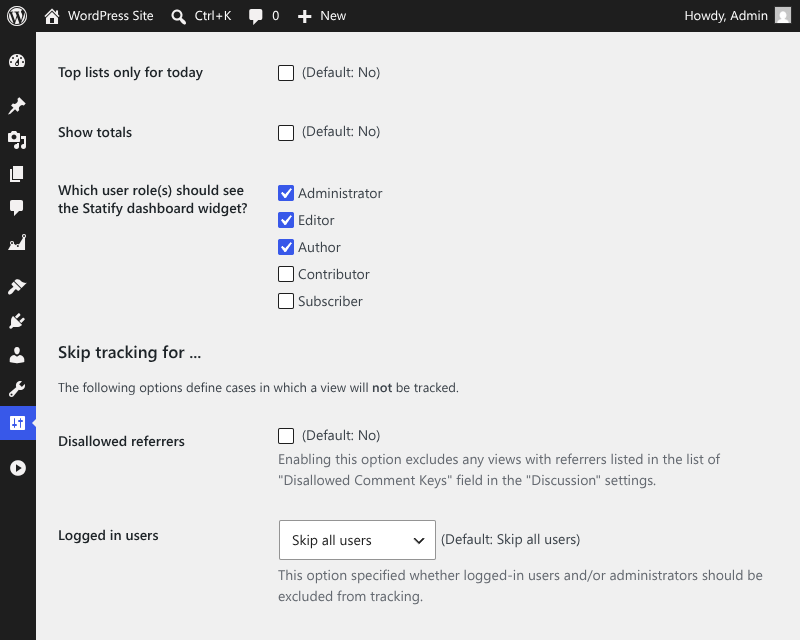
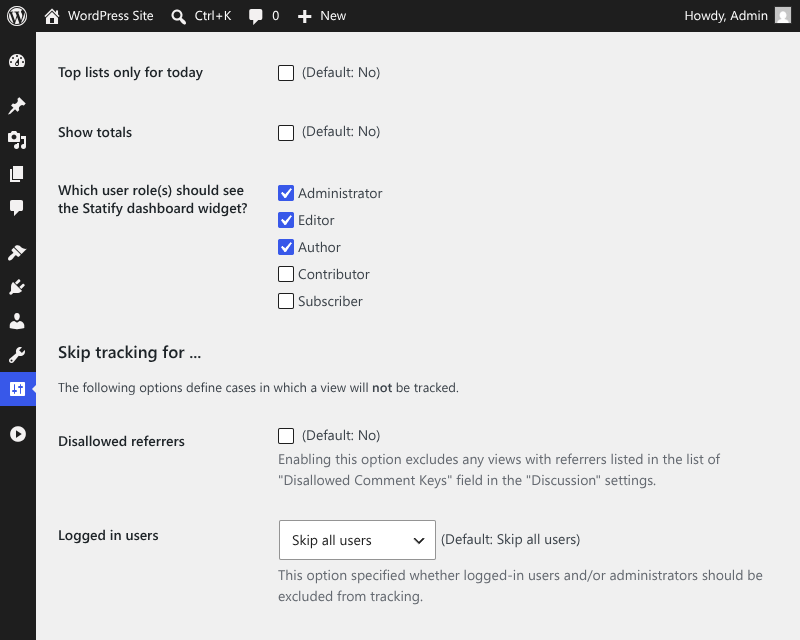
Move new menu item to dashboard sub menu (#334)
Instead of creating a new Statify menu for the extended evaluation
dashboards we now add a Statify entry below Dashboard. All sub-menus are
moved down one level, so previous submenu entries become tabs and tabs
become sub-navigation.

Changed region(s): [[0.0, 0.4375, 0.0625, 0.6875], [0.0, 0.7188, 0.0312, 0.75], [0.0, 0.375, 0.0312, 0.4062]]

diff --git a/css/dashboard.css b/css/dashboard.css
@@ -204,4 +204,9 @@ body.rtl .statify-chart * {
 	margin: 1em 0;
 }
 
+.statify-subnav li:not(:last-child)::after {
+	content: "|";
+	margin: 0 0.2em;
+}
+
 /* @end group */

diff --git a/inc/class-statify-evaluation.php b/inc/class-statify-evaluation.php
@@ -41,57 +41,85 @@ class Statify_Evaluation extends Statify {
 	}
 
 	/**
-	 * Create an item and submenu items in the WordPress admin menu.
+	 * Create the Statify entry and its sub pages in the WordPress admin menu.
+	 *
+	 * The evaluation is shown as a single "Statify" entry below the Dashboard
+	 * menu. The content and referrers pages are not registered as sub pages,
+	 * but accessible via in-page navigation.
 	 */
 	public static function add_menu(): void {
-		add_menu_page(
+		add_submenu_page(
+			'index.php',
 			__( 'Statify', 'statify' ),
-			'Statify',
+			__( 'Statify', 'statify' ),
 			'see_statify_evaluation',
 			'statify_dashboard',
-			array( __CLASS__, 'show_dashboard' ),
-			'dashicons-chart-area',
-			50
+			array( __CLASS__, 'show_dashboard' )
 		);
+	}
 
-		add_submenu_page(
-			'statify_dashboard',
-			__( 'Content', 'statify' ) . ' &mdash; ' . __( 'Statify', 'statify' ),
-			__( 'Content', 'statify' ),
-			'see_statify_evaluation',
-			'statify_content',
-			array( __CLASS__, 'show_content' )
+	/**
+	 * Render the navigation tabs shared by all evaluation pages.
+	 *
+	 * @param string $current The page slug of the currently active tab.
+	 */
+	public static function show_navigation( string $current ): void {
+		$pages = array(
+			'dashboard' => __( 'Overview', 'statify' ),
+			'content'   => __( 'Content', 'statify' ),
+			'referrers' => __( 'Referrers', 'statify' ),
 		);
+		?>
+		<nav class="statify-page-nav nav-tab-wrapper wp-clearfix" aria-label="<?php esc_attr_e( 'Statify evaluation', 'statify' ); ?>">
+			<?php foreach ( $pages as $view => $label ) : ?>
+			<a href="<?php echo esc_url( admin_url( 'index.php?page=statify_dashboard&view=' . $view ) ); ?>"
+			   class="nav-tab<?php echo ( $current === $view ) ? ' nav-tab-active' : ''; ?>">
+				<?php echo esc_html( $label ); ?>
+			</a>
+			<?php endforeach; ?>
+		</nav>
+		<?php
+	}
 
-		add_submenu_page(
-			'statify_dashboard',
-			__( 'Referrers', 'statify' ) . ' &mdash; ' . __( 'Statify', 'statify' ),
-			__( 'Referrers', 'statify' ),
-			'see_statify_evaluation',
-			'statify_referrers',
-			array( __CLASS__, 'show_referrers' )
-		);
+	/**
+	 * Render a secondary navigation as a list of links (WordPress subsubsub style).
+	 *
+	 * Used below the primary tab navigation to switch between e.g. years or post
+	 * types without repeating the tab styling of the primary navigation.
+	 *
+	 * @param array  $items      List of items, each an array with the keys 'url',
+	 *                           'label' and (optionally) 'current'.
+	 * @param string $aria_label Accessible label for the navigation element.
+	 */
+	public static function show_subnavigation( array $items, string $aria_label ): void {
+		if ( empty( $items ) ) {
+			return;
+		}
+		?>
+		<nav class="statify-subnav wp-clearfix" aria-label="<?php echo esc_attr( $aria_label ); ?>">
+			<ul class="subsubsub">
+				<?php foreach ( $items as $item ) : ?>
+				<li>
+					<a href="<?php echo esc_url( $item['url'] ); ?>"<?php echo empty( $item['current'] ) ? '' : ' class="current" aria-current="page"'; ?>><?php echo esc_html( $item['label'] ); ?></a>
+				</li>
+				<?php endforeach; ?>
+			</ul>
+		</nav>
+		<?php
 	}
 
 	/**
 	 * Show the dashboard page.
 	 */
 	public static function show_dashboard(): void {
-		self::show_view( 'dashboard' );
-	}
-
-	/**
-	 * Show the content page.
-	 */
-	public static function show_content(): void {
-		self::show_view( 'content' );
-	}
-
-	/**
-	 * Show the referrers page.
-	 */
-	public static function show_referrers(): void {
-		self::show_view( 'referrers' );
+		$view = 'dashboard';
+		if ( isset( $_GET['view'] ) ) {
+			$view = sanitize_key( wp_unslash( $_GET['view'] ) );
+			if ( ! in_array( $view, array( 'dashboard', 'content', 'referrers' ), true ) ) {
+				$view = 'dashboard';
+			}
+		}
+		self::show_view( $view );
 	}
 
 	/**

diff --git a/views/view-content.php b/views/view-content.php
@@ -57,21 +57,29 @@ if ( ! empty( $date_start ) && ! empty( $date_end ) && $date_start !== $date_end
 <div class="wrap">
 	<h1><?php esc_html_e( 'Statify', 'statify' ); ?> - <?php esc_html_e( 'Content', 'statify' ); ?></h1>
 
-	<nav class="statify-dashboard-nav nav-tab-wrapper wp-clearfix" aria-label="<?php esc_attr_e( 'Popular Content and Post Types', 'statify' ); ?>">
-		<a href="<?php echo esc_url( admin_url( 'admin.php?page=statify_content' ) ); ?>"
-		   class="nav-tab<?php echo ( 'popular' === $selected_type ) ? ' nav-tab-active' : ''; ?>">
-			<?php esc_html_e( 'Most Popular Content', 'statify' ); ?>
-		</a>
-		<?php foreach ( $post_types as $pt ) : ?>
-		<a href="<?php echo esc_url( admin_url( 'admin.php?page=statify_content&type=' . $pt ) ); ?>"
-		   class="nav-tab<?php echo ( $selected_type === $pt ) ? ' nav-tab-active' : ''; ?>">
-			<?php echo esc_html( get_post_type_object( $pt )->labels->name ); ?>
-		</a>
-		<?php endforeach; ?>
-	</nav>
+	<?php
+	Statify_Evaluation::show_navigation( 'content' );
+
+	$subnav_items = array(
+		array(
+			'url'     => admin_url( 'index.php?page=statify_dashboard&view=content' ),
+			'label'   => __( 'Most Popular Content', 'statify' ),
+			'current' => ( 'popular' === $selected_type ),
+		),
+	);
+	foreach ( $post_types as $pt ) {
+		$subnav_items[] = array(
+			'url'     => admin_url( 'index.php?page=statify_dashboard&view=content&type=' . $pt ),
+			'label'   => get_post_type_object( $pt )->labels->name,
+			'current' => ( $selected_type === $pt ),
+		);
+	}
+	Statify_Evaluation::show_subnavigation( $subnav_items, __( 'Popular Content and Post Types', 'statify' ) );
+	?>
 
 	<form id="statify-dashboard-controls">
-		<input type="hidden" name="page" value="statify_content">
+		<input type="hidden" name="page" value="statify_dashboard">
+		<input type="hidden" name="view" value="content">
 		<?php
 		if ( 'popular' !== $selected_type ) {
 			echo '<input type="hidden" name="type" value="' . esc_attr( $selected_type ) . '">';

diff --git a/views/view-dashboard.php b/views/view-dashboard.php
@@ -26,18 +26,25 @@ if ( isset( $_GET['post'] ) ) {
 <div class="wrap">
 	<h1><?php esc_html_e( 'Statify', 'statify' ); ?></h1>
 
-	<nav class="statify-dashboard-nav nav-tab-wrapper wp-clearfix" aria-label="<?php esc_html_e( 'Overview and Years', 'statify' ); ?>">
-		<a href="<?php echo esc_url( admin_url( 'admin.php?page=statify_dashboard' ) ); ?>"
-		   class="nav-tab<?php echo ( empty( $selected_year ) ) ? ' nav-tab-active' : ''; ?>">
-			<?php esc_html_e( 'Overview', 'statify' ); ?>
-		</a>
-		<?php foreach ( $years as $y ) : ?>
-		<a href="<?php echo esc_url( admin_url( 'admin.php?page=statify_dashboard&year=' . $y ) ); ?>"
-		   class="nav-tab<?php echo ( $selected_year === $y ) ? ' nav-tab-active' : ''; ?>">
-			<?php echo esc_html( $y ); ?>
-		</a>
-		<?php endforeach; ?>
-	</nav>
+	<?php
+	Statify_Evaluation::show_navigation( 'dashboard' );
+
+	$subnav_items = array(
+		array(
+			'url'     => admin_url( 'index.php?page=statify_dashboard' ),
+			'label'   => __( 'Overview', 'statify' ),
+			'current' => empty( $selected_year ),
+		),
+	);
+	foreach ( $years as $y ) {
+		$subnav_items[] = array(
+			'url'     => admin_url( 'index.php?page=statify_dashboard&year=' . $y ),
+			'label'   => (string) $y,
+			'current' => ( $selected_year === $y ),
+		);
+	}
+	Statify_Evaluation::show_subnavigation( $subnav_items, __( 'Overview and Years', 'statify' ) );
+	?>
 
 	<h2><?php esc_html_e( 'Overview', 'statify' ); ?></a></h2>
 

diff --git a/views/view-referrers.php b/views/view-referrers.php
@@ -57,8 +57,11 @@ if ( ! empty( $date_start ) && ! empty( $date_end ) && $date_start !== $date_end
 <div class="wrap">
 	<h1><?php esc_html_e( 'Statify', 'statify' ); ?> - <?php esc_html_e( 'Referrers from other websites', 'statify' ); ?></h1>
 
+	<?php Statify_Evaluation::show_navigation( 'referrers' ); ?>
+
 	<form id="statify-dashboard-controls">
-		<input type="hidden" name="page" value="statify_referrers">
+		<input type="hidden" name="page" value="statify_dashboard">
+		<input type="hidden" name="view" value="referrers">
 		<label for="statify-content-daterange"><?php esc_html_e( 'Date range', 'statify' ); ?></label>
 		<select id="statify-content-daterange" name="range">
 			<option value=""><?php esc_html_e( 'default (all the time)', 'statify' ); ?></option>
